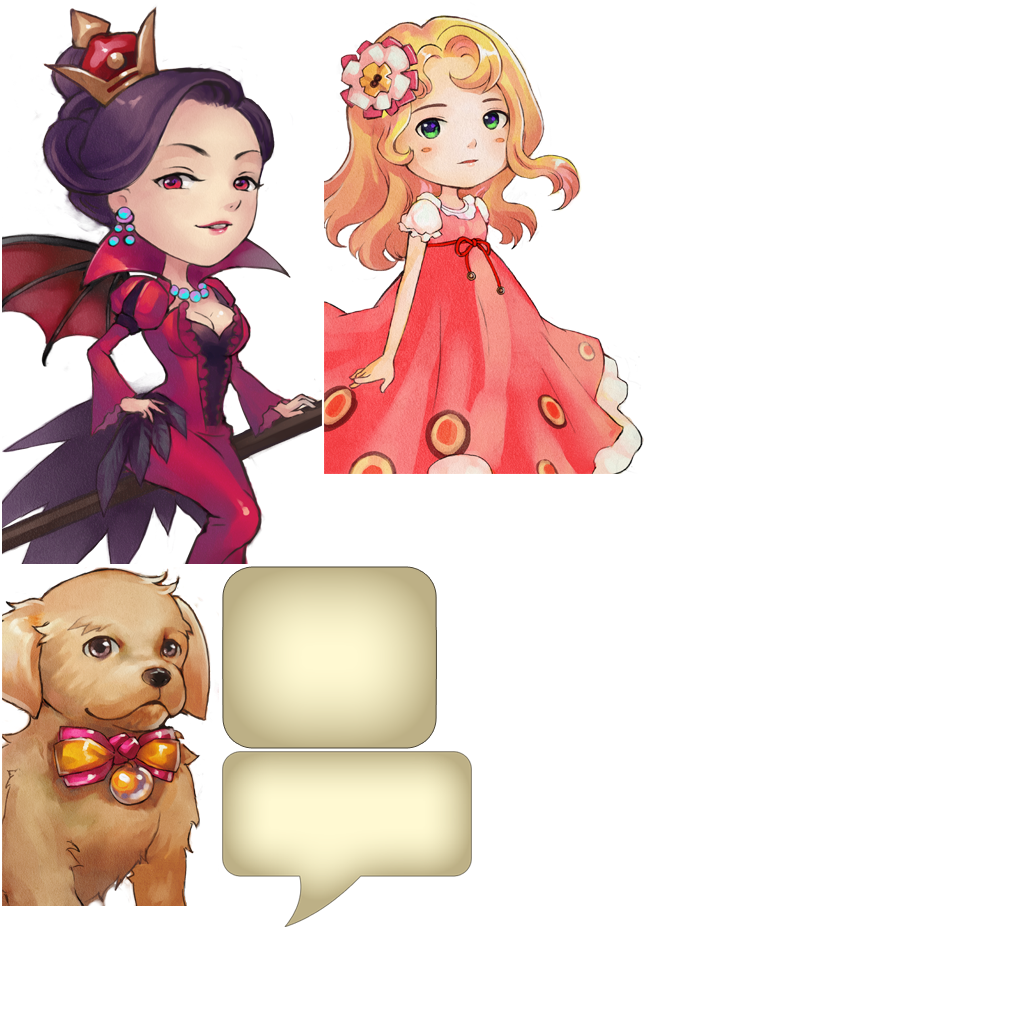
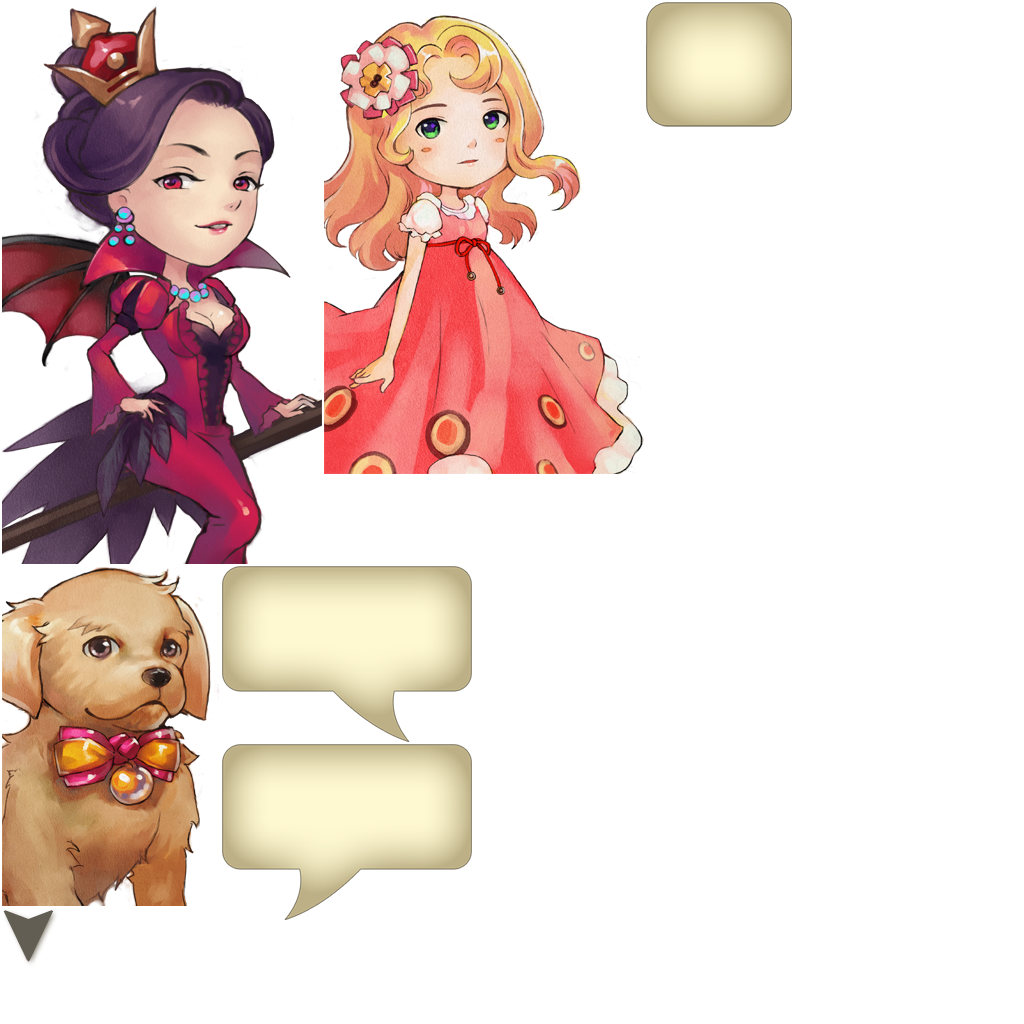
FTUE中的操作提示

diff --git a/ClientProject/Assets/CSharpScripts/UIScripts/UIFTUE.cs b/ClientProject/Assets/CSharpScripts/UIScripts/UIFTUE.cs
@@ -9,6 +9,9 @@ public class UIFTUE : UIWindow
 	UISprite m_headSprite;
     UISprite m_backPic;
     UISprite m_pic;             //配的图片
+
+    UILabel m_clickLabel;
+
     GameObject m_pointer;
     UIEffectPlayer m_dialogEffectPlayer;
     WindowEffectFinished m_afterDialogFunc;
@@ -137,7 +140,9 @@ public class UIFTUE : UIWindow
 		m_curDialogIndex = 0;
 		
 		m_bLock = true;
-		
+
+        m_clickLabel.gameObject.SetActive(false);
+
         //开始播放文字
         m_dialogText.Play(m_dialogContents[m_curDialogIndex], delegate()
         {
@@ -150,6 +155,17 @@ public class UIFTUE : UIWindow
                 	func();
 				}
             }
+
+            m_clickLabel.gameObject.SetActive(true);
+            if (m_ftueData[m_FTUEIndex].from.IsAvailable() && m_curDialogIndex == m_dialogContents.Length - 1)
+            {
+                m_clickLabel.text = Localization.instance.Get("MoveBlock");
+            }
+            else
+            {
+                m_clickLabel.text = Localization.instance.Get("Click");
+            }
+
 			++m_curDialogIndex;
         });
 
@@ -166,6 +182,7 @@ public class UIFTUE : UIWindow
         m_pic = GetChildComponent<UISprite>("Picture");
         m_pointer = GameObject.Find("FTUEPointer");
         m_pointer.SetActive(false);
+        m_clickLabel = GetChildComponent<UILabel>("ClickLabel");
 		AddChildComponentMouseClick("DialogBoard", OnClick);
     }
 
@@ -187,11 +204,21 @@ public class UIFTUE : UIWindow
             m_dialogEffectPlayer.HideEffect(delegate()
             {
                 m_dialogEffectPlayer.ShowEffect();
+                m_clickLabel.gameObject.SetActive(false);
                 //播放下一段
                 m_dialogText.Play(m_dialogContents[m_curDialogIndex], delegate()
                 {
                     m_bLock = false;
                     ++m_curDialogIndex;
+                    m_clickLabel.gameObject.SetActive(true);
+                    if (m_ftueData[m_FTUEIndex].from.IsAvailable())
+                    {
+                        m_clickLabel.text = Localization.instance.Get("MoveBlock");
+                    }
+                    else
+                    {
+                        m_clickLabel.text = Localization.instance.Get("Click");
+                    }
                     if (m_afterDialogFunc != null)          //若有结束函数
                     {
                         m_afterDialogFunc();

diff --git a/ClientProject/Assets/CSharpScripts/UIScripts/UIDialog.cs b/ClientProject/Assets/CSharpScripts/UIScripts/UIDialog.cs
@@ -36,6 +36,7 @@ public class UIDialog : UIWindow
 	UISprite m_head2Sprite;
 	UISprite m_itemBoard;
     UISprite m_backPic;
+    UISprite m_clickSprite;
 
     UIEffectPlayer m_dialogEffectPlayer;
 
@@ -120,14 +121,13 @@ public class UIDialog : UIWindow
         }
         else
         {
-            m_dialogBoardSprite.spriteName = "TextBox";
             if (activeLeftHead)
             {
-                m_dialogBoardSprite.transform.LocalScaleX(1.0f);
+                m_dialogBoardSprite.spriteName = "TextBox";
             }
             else
             {
-                m_dialogBoardSprite.transform.LocalScaleX(-1.0f);
+                m_dialogBoardSprite.spriteName = "TextBoxMir";
             }
         }
 
@@ -168,9 +168,11 @@ public class UIDialog : UIWindow
 			m_head2Sprite.gameObject.SetActive(false);
 		}
 
+        m_clickSprite.gameObject.SetActive(false);
+
         m_dialogText.Play(content, delegate()
         {
-
+            m_clickSprite.gameObject.SetActive(true);
         });
 	}
 	
@@ -210,6 +212,7 @@ public class UIDialog : UIWindow
 
         m_backPic = GetChildComponent<UISprite>("Background");
 		m_itemBoard = GetChildComponent<UISprite>("ItemBoard");
+        m_clickSprite = GetChildComponent<UISprite>("ClickSprite");
 
         AddChildComponentMouseClick("SkipBtn", delegate()
         {
